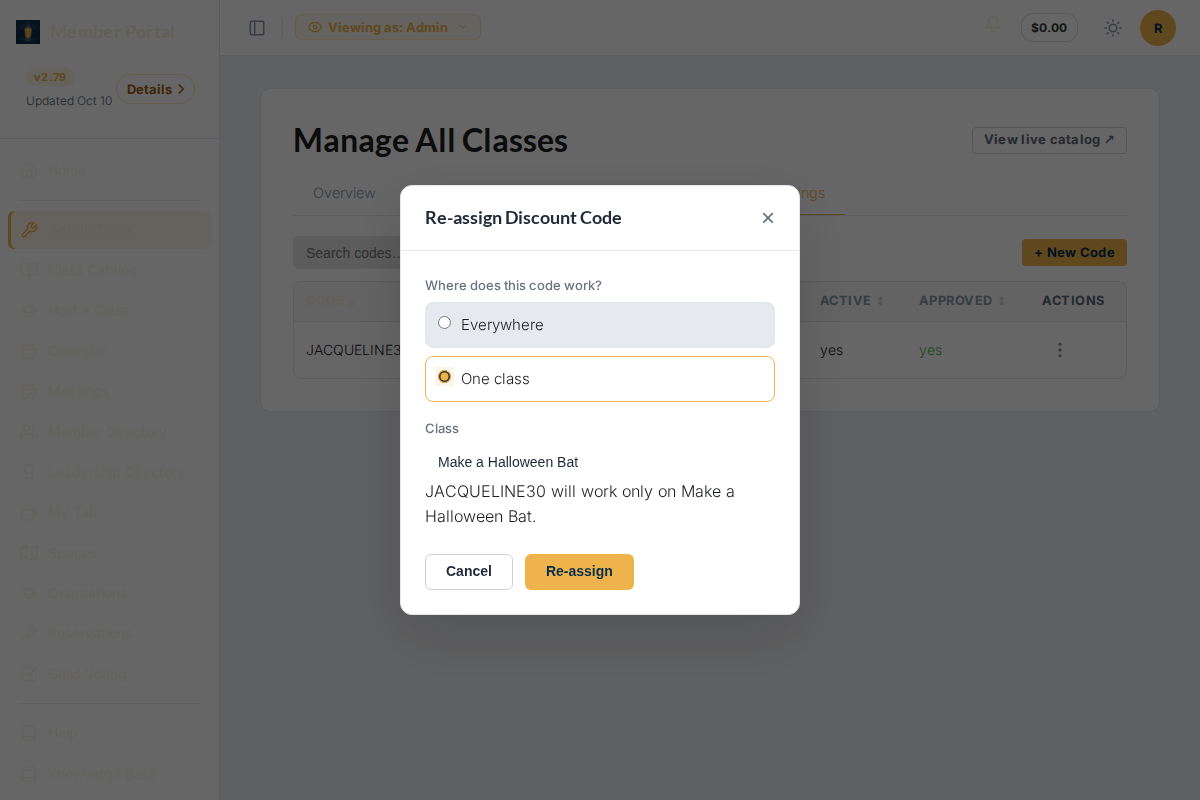
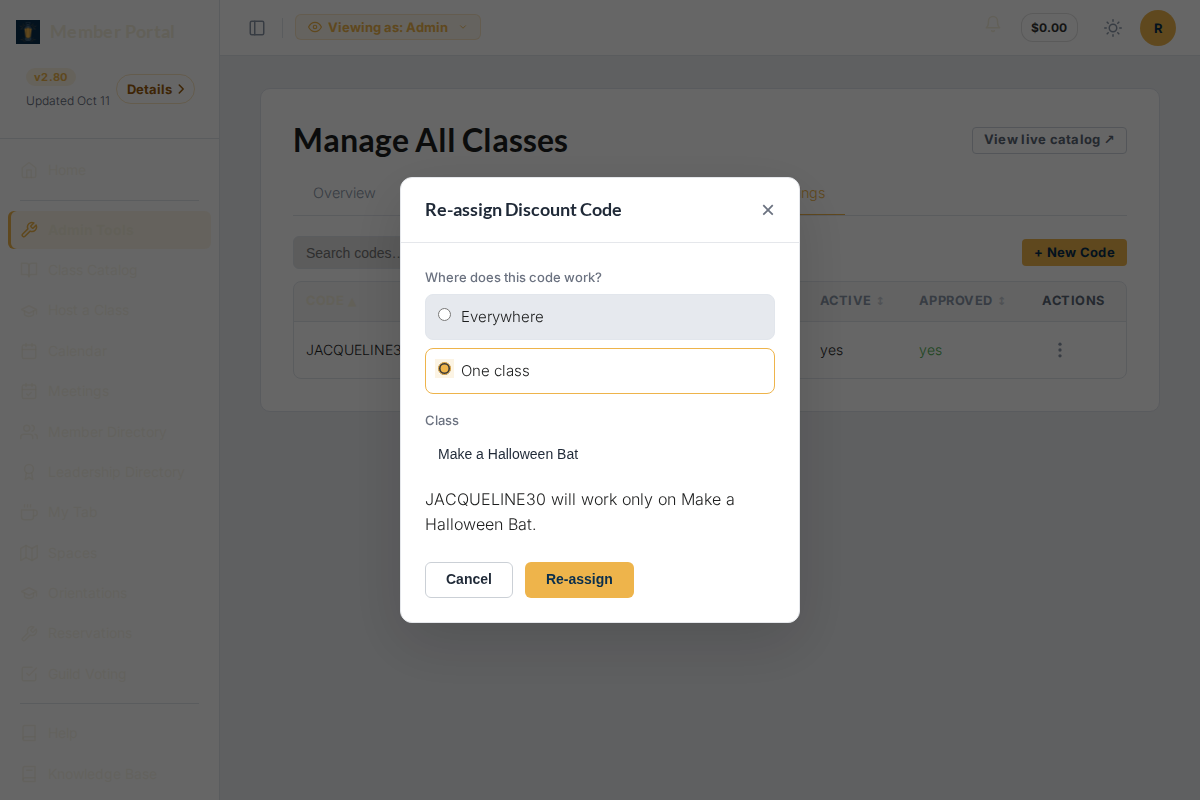
[classes] The re-assign sentence clears the picker, and FRONTEND.md asks for generous spacing
Felix's fix round on #771: the sentence under the Class select sat flush against it, because .pl-form-group:last-child strips the last group's bottom margin inside the x-show wrapper and hub.css's universal reset leaves a bare paragraph with no margin. The sentence now carries its own gap as .pl-form-note (components.css, beside .pl-field-hint). FRONTEND.md gets the Spacing line and rule 26: nothing touches, every block carries its own top margin.

Claude-Session: https://claude.ai/code/session_01EPSCiDwoj6KNg7yykjqVMa

diff --git a/templates/classes/partials/discount_code_reassign_form.html b/templates/classes/partials/discount_code_reassign_form.html
@@ -28,7 +28,7 @@ DiscountCode.scope_sentence, and Re-assign stays disabled until One class has a 
     <div x-show="scope === 'class'" x-cloak>
         {% include "components/form_field.html" with field=form.class_offering %}
     </div>
-    <p data-reassign-sentence x-text="sentence()">{{ sentence }}</p>
+    <p class="pl-form-note" data-reassign-sentence x-text="sentence()">{{ sentence }}</p>
     <div class="pl-modal__actions">
         <button type="button" class="pl-btn pl-btn--secondary" @click="$dispatch('close-modal', 'reassign-code')">Cancel</button>
         <button type="submit" class="pl-btn pl-btn--primary" :disabled="scope === 'class' && !classPk">Re-assign</button>

diff --git a/static/css/components.css b/static/css/components.css
@@ -1017,6 +1017,11 @@ select[multiple] option:checked {
     margin: 0;
 }
 
+/* A free standing line in a form or modal (a live summary sentence, a note under a picker); it carries its own gap because :last-child rules strip the one above. */
+.pl-form-note {
+    margin: 1rem 0 1.5rem;
+}
+
 /* The class composer's Required marker (issue #424): a small text badge after the hero
    photo label and the Gallery section title on the Photos step. No other composer field
    carries one (form_field.html renders no marker), so these two are the marker.

diff --git a/FRONTEND.md b/FRONTEND.md
@@ -46,6 +46,8 @@ Dark mode is **"Obsidian"** (near-black charcoal); light mode is **"Slate"** (co
 
 8px grid: `0.25rem`, `0.5rem`, `0.75rem`, `1rem`, `1.25rem`, `1.5rem`, `2rem`
 
+Spacing is generous by default: nothing touches. Rule 26.
+
 ## Component Library
 
 All components live in `templates/components/`. Include via `{% include "components/<name>.html" with param=value %}`.
@@ -378,6 +380,7 @@ Canonical example to copy: `templates/classes/emails/reminder.{html,txt}` and it
 23. **Scripts on hub pages follow *Scripts under hx-boost*.** htmx and Alpine load once from `hub/base.html`; a static file that registers an Alpine component loads from that `<head>`, deferred, before Alpine, and registers on whichever side of `alpine:init` it lands; a body script re-runs on every boosted navigation. Enforced by `tests/hub/base_scripts_spec.py` (head order, nothing loads htmx or Alpine twice, every `Alpine.data` file is in the head) and driven end to end by `tests/e2e/boosted_navigation_spec.py`.
 24. **A link to a download carries `hx-boost="false"`.** `hub/base.html` boosts every same-origin anchor and form under its body, so a link to an attachment (an `.ics`, a QR image, a CSV export, an uploaded document) is fetched over XHR and its raw text swapped into the page in place of a download, with the file's URL in the address bar. The `download` attribute alone changes nothing; htmx 2.0.4 does not look at it. The attribute is inert on a page that is not boosted, so every such link carries it and no template has to know its base. A link to one of **our own** attachments also carries `data-pl-download`: the Capacitor shells drop a download outright (no download handling on either platform yet), so `static/js/native-downloads.js` hides marked links inside the native app and does nothing in a browser. Links to uploaded documents are not marked, because they live on another host that the shells hand to the system. Enforced by `tests/download_links_lint_spec.py`, which registers every view that sets `Content-Disposition` (a new one fails the spec until it is listed) and holds every anchor or form that points at one, including through the Share & Print card, to both attributes; driven end to end by `tests/e2e/event_ics_download_spec.py` and `tests/e2e/native_download_links_spec.py`. A Django-client spec cannot see this, because the response itself is a correct attachment.
 25. **An input that takes a lot of room starts collapsed.** Show its chosen values and an Edit button; expand the controls only when the member interacts with it, keep them in the DOM (`x-show`) so one Save posts them, and open a new or errored row. See *Inputs That Take Room Start Collapsed* under Interaction Patterns.
+26. **Be generous with spacing: nothing touches.** Every block that follows a control, a heading or another block clears it by at least `0.75rem` inside a form or modal and `1.5rem` between sections, on the 8px grid, through a CSS class. A block carries its **own top margin**; never lean on the element above for the gap, because `.pl-form-group:last-child { margin-bottom: 0 }` (`components.css`) strips the bottom margin of the last group inside any wrapper (an `x-show` div, a modal body) and `hub.css`'s universal reset (`* { margin: 0 }`) zeroes paragraph margins, so a bare `<p>` after a field renders flush against it (the Re-assign modal's sentence, #764). A free-standing line in a form or modal (a live summary sentence, a note under a picker) is `.pl-form-note` (`margin: 1rem 0 1.5rem`). Rule 18 and `pl-btn--spaced` are instances of this rule, not the whole of it. Check the rendered page in both themes before taking the screenshot: two things touching is a bug, not polish.
 
 ## CSS Files
 
